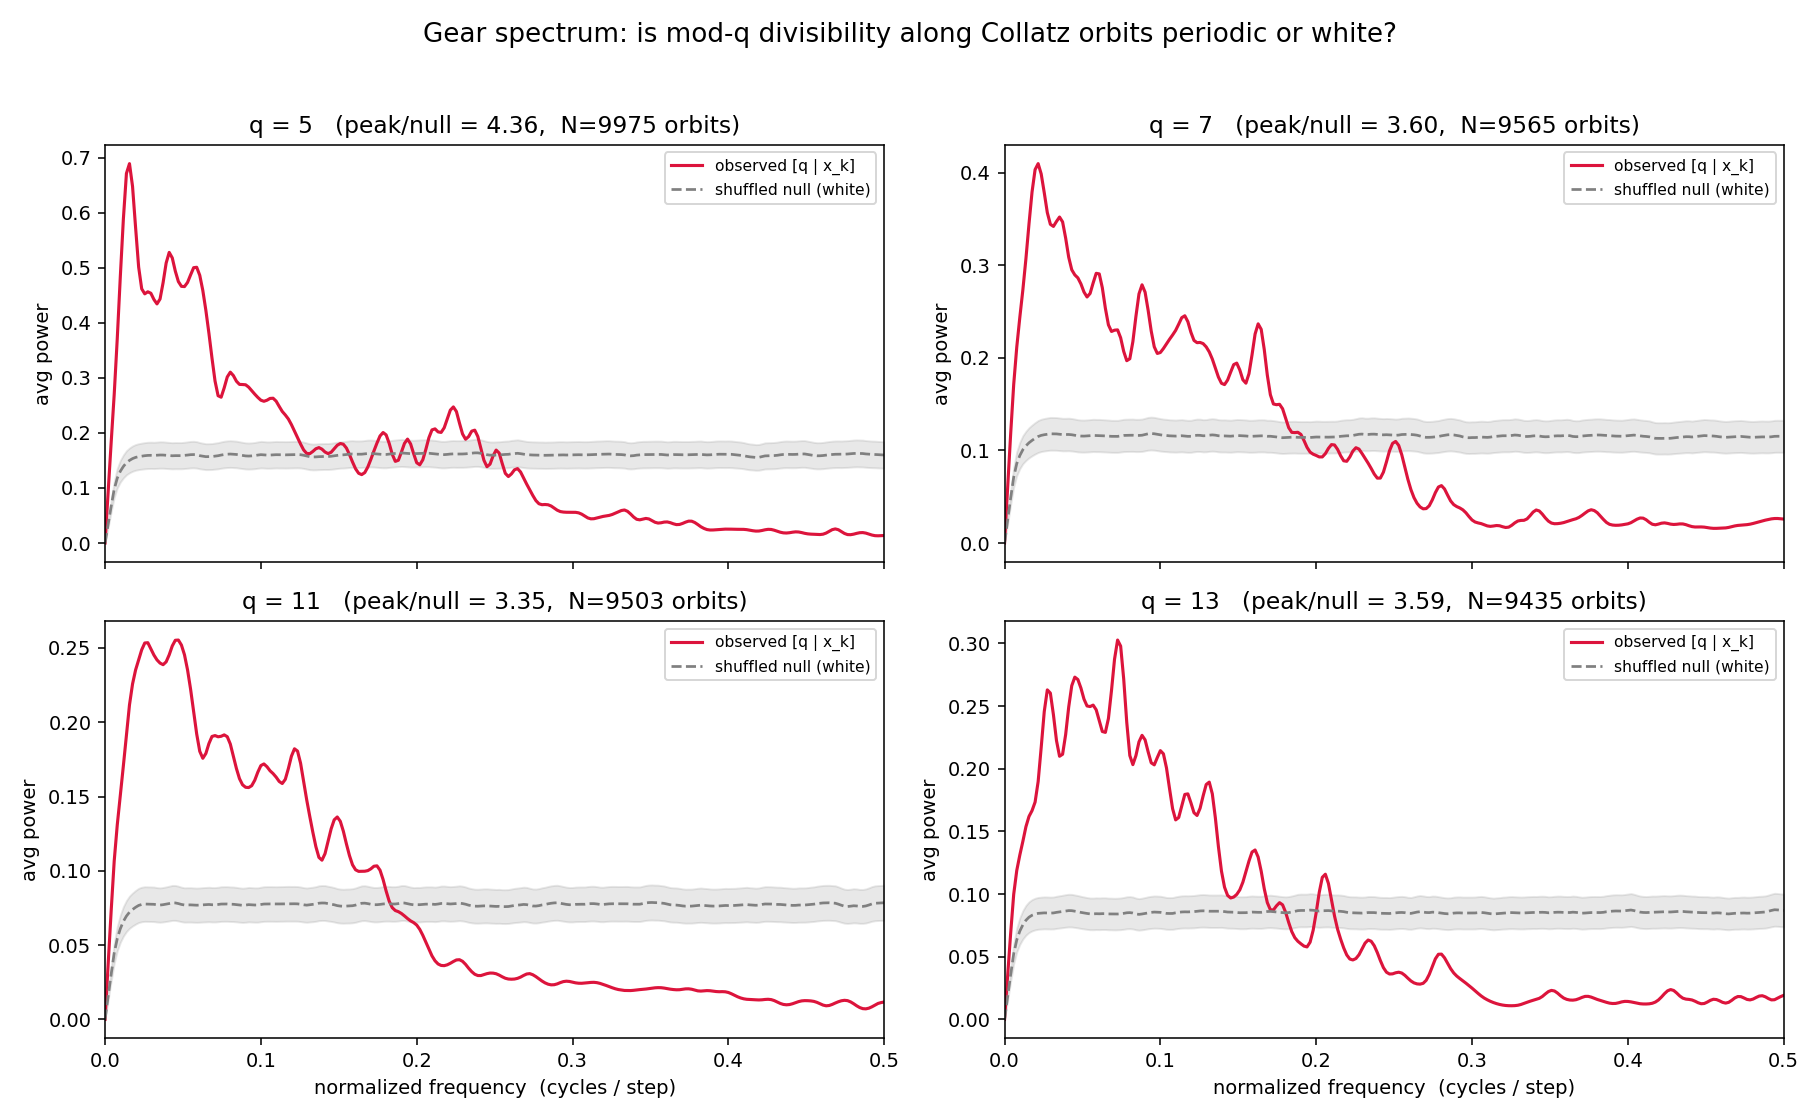
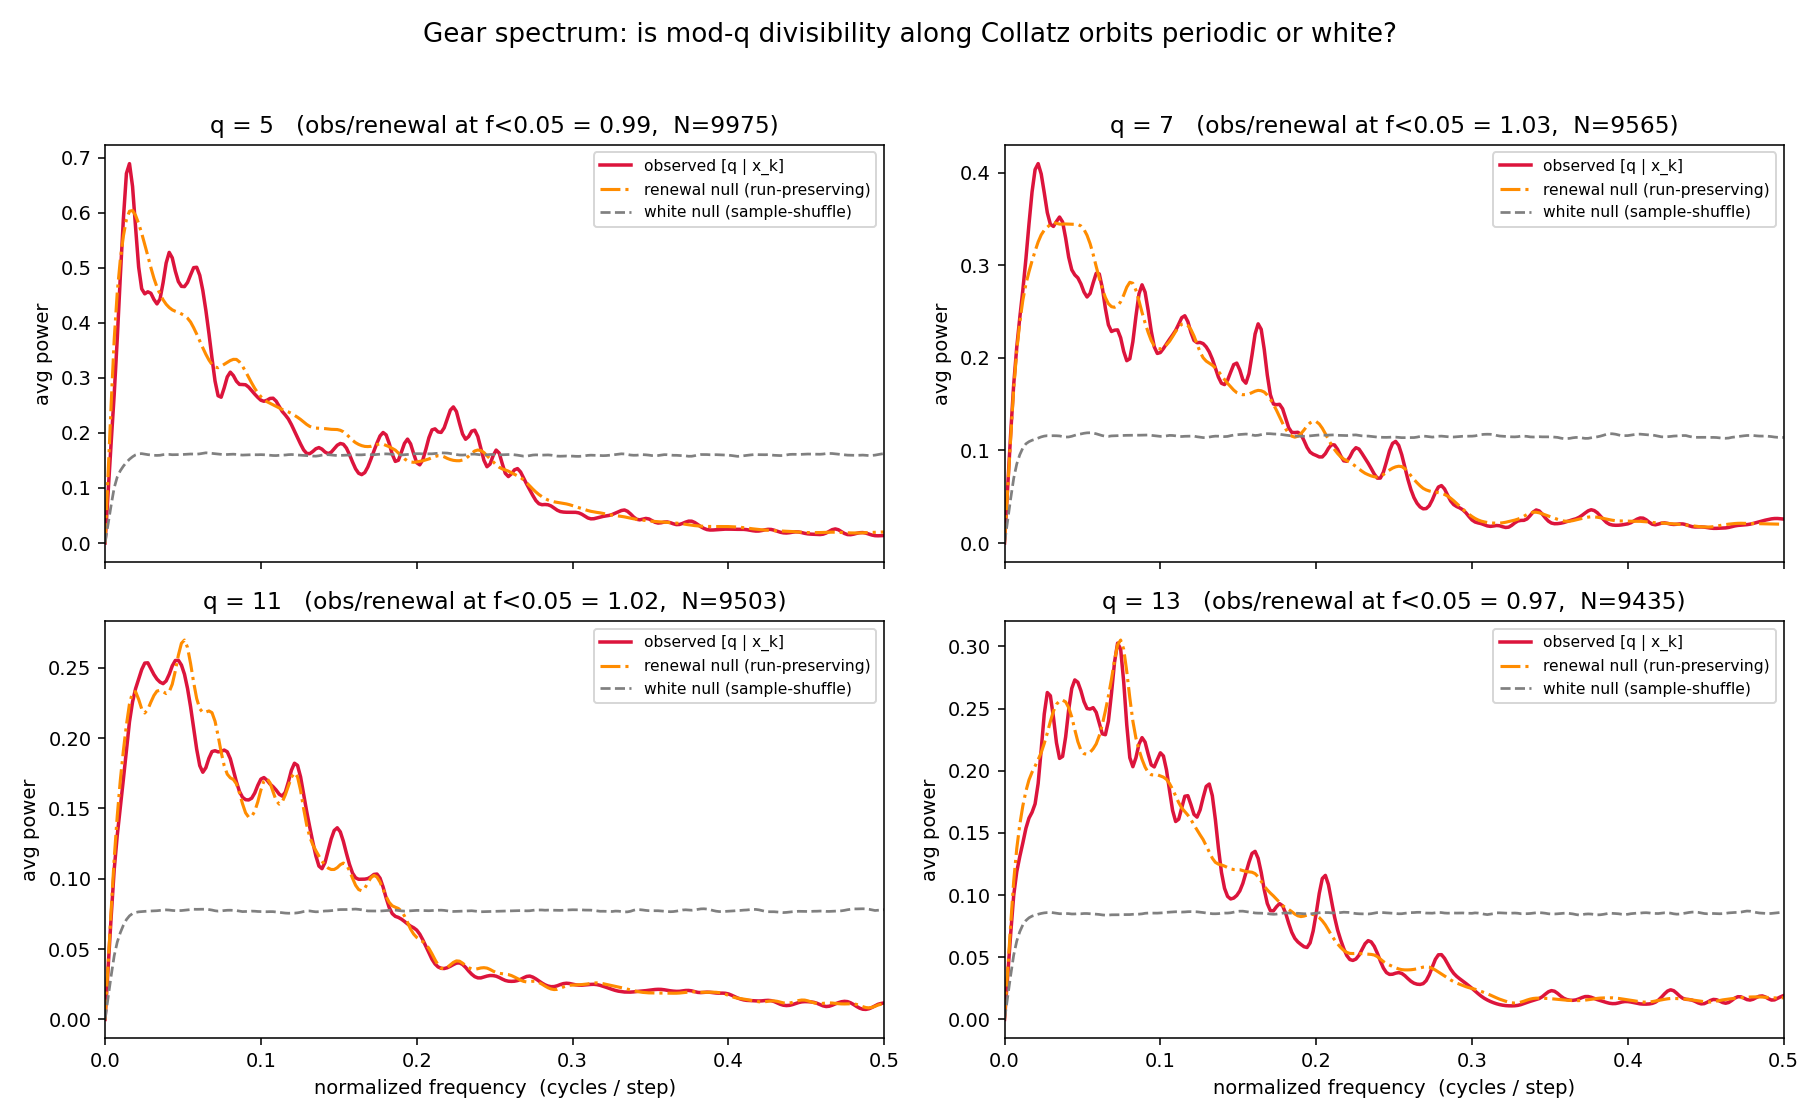
exploration: add renewal null to gear spectrum -- refutes clustering
Run-preserving (renewal) null overlays the observed spectrum (obs/renewal at
f<0.05 = 0.99/1.03/1.02/0.97). The red/low-frequency excess is fully the
burst-and-halving-run shape; gear engagements are serially independent (a
renewal process), no long-range clustering. Earlier long-memory hypothesis
refuted.

diff --git a/scripts/collatz_gear_spectrum.py b/scripts/collatz_gear_spectrum.py
@@ -24,6 +24,7 @@ Output:
 """
 from __future__ import annotations
 
+import itertools
 from pathlib import Path
 
 import matplotlib
@@ -52,10 +53,33 @@ def periodogram_on_grid(signal: np.ndarray) -> np.ndarray:
     return np.interp(GRID, freq, power)
 
 
+def renewal_shuffle(s: np.ndarray, rng) -> np.ndarray:
+    """Run-preserving (renewal) null: keep each run's width, shuffle run order.
+
+    Preserves the burst-width and gap-width multisets and the alternating
+    pattern exactly; destroys any serial correlation between runs. If the
+    observed low-frequency excess survives above this null, the long-memory is
+    real clustering -- not merely the burst/gap marginal shape.
+    """
+    runs = [(int(v), sum(1 for _ in g)) for v, g in itertools.groupby(s)]
+    ones = [L for v, L in runs if v == 1]
+    zeros = [L for v, L in runs if v == 0]
+    rng.shuffle(ones)
+    rng.shuffle(zeros)
+    out, oi, zi = [], 0, 0
+    for v, _ in runs:
+        if v == 1:
+            out.extend([1.0] * ones[oi]); oi += 1
+        else:
+            out.extend([0.0] * zeros[zi]); zi += 1
+    return np.array(out)
+
+
 def ensemble_spectra(q: int):
-    """Average observed and shuffled-null periodograms of [q | x_k] over seeds."""
+    """Average observed, white-null, and renewal-null periodograms over seeds."""
     obs_acc = np.zeros_like(GRID)
-    null_acc = np.zeros_like(GRID)
+    white_acc = np.zeros_like(GRID)
+    renew_acc = np.zeros_like(GRID)
     count = 0
     for seed in range(SEED_LO, SEED_HI, 2):
         seq = orbit(seed)
@@ -65,22 +89,25 @@ def ensemble_spectra(q: int):
         if not np.any(s):
             continue
         obs_acc += periodogram_on_grid(s)
-        null_acc += periodogram_on_grid(RNG.permutation(s))
+        white_acc += periodogram_on_grid(RNG.permutation(s))
+        renew_acc += periodogram_on_grid(renewal_shuffle(s, RNG))
         count += 1
-    return obs_acc / count, null_acc / count, count
+    return obs_acc / count, white_acc / count, renew_acc / count, count
 
 
 def main() -> None:
     OUT.parent.mkdir(parents=True, exist_ok=True)
     fig, axes = plt.subplots(2, 2, figsize=(13, 8), sharex=True)
     for ax, q in zip(axes.ravel(), PRIMES):
-        obs, null, count = ensemble_spectra(q)
-        ax.plot(GRID, obs, color="crimson", lw=1.6, label="observed [q | x_k]")
-        ax.plot(GRID, null, color="0.5", lw=1.4, ls="--",
-                label="shuffled null (white)")
-        ax.fill_between(GRID, null * 0.85, null * 1.15, color="0.5", alpha=0.18)
-        ratio = obs.max() / null.mean() if null.mean() > 0 else float("nan")
-        ax.set_title(f"q = {q}   (peak/null = {ratio:.2f},  N={count} orbits)")
+        obs, white, renew, count = ensemble_spectra(q)
+        ax.plot(GRID, obs, color="crimson", lw=1.8, label="observed [q | x_k]")
+        ax.plot(GRID, renew, color="darkorange", lw=1.6, ls="-.",
+                label="renewal null (run-preserving)")
+        ax.plot(GRID, white, color="0.5", lw=1.4, ls="--", label="white null (sample-shuffle)")
+        # excess of observed over the renewal null at the lowest frequencies
+        lo = GRID < 0.05
+        excess = obs[lo].mean() / renew[lo].mean() if renew[lo].mean() > 0 else float("nan")
+        ax.set_title(f"q = {q}   (obs/renewal at f<0.05 = {excess:.2f},  N={count})")
         ax.set_ylabel("avg power")
         ax.legend(fontsize=8, loc="upper right")
         ax.set_xlim(0, 0.5)
